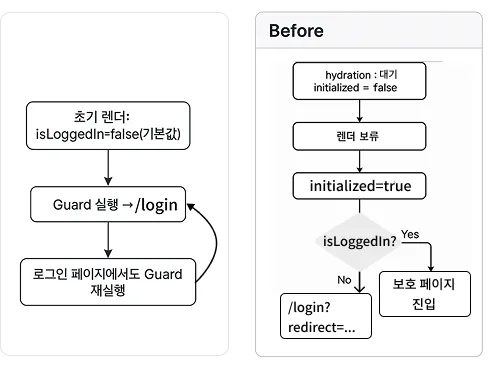
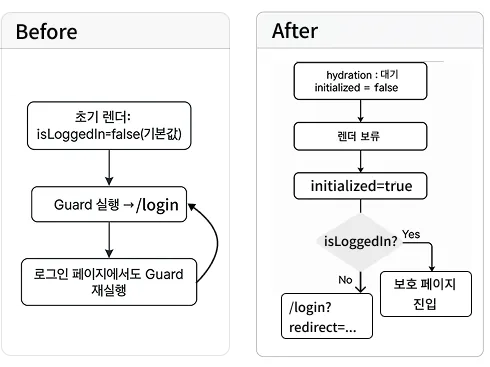
fix : 렛츠커리어·MAPLIX 다이어그램 이미지 교체 및 세로 다이어그램 표시 높이 확대
- letscareer-redirect-diagram: Before / After 라벨 수정본으로 교체
- maplix-lighthouse: 3배 해상도(642×1047)로 교체
- 세로로 긴 다이어그램 최대 높이 440px → 600px

diff --git a/pp-next/components/portfolio/Troubleshooting.tsx b/pp-next/components/portfolio/Troubleshooting.tsx
@@ -108,7 +108,7 @@ function Card({ item, index }: { item: Item; index: number }) {
                       width={0}
                       height={0}
                       unoptimized
-                      className='h-auto max-h-[440px] w-auto max-w-full'
+                      className='h-auto max-h-[600px] w-auto max-w-full'
                     />
                   </div>
                 )}
